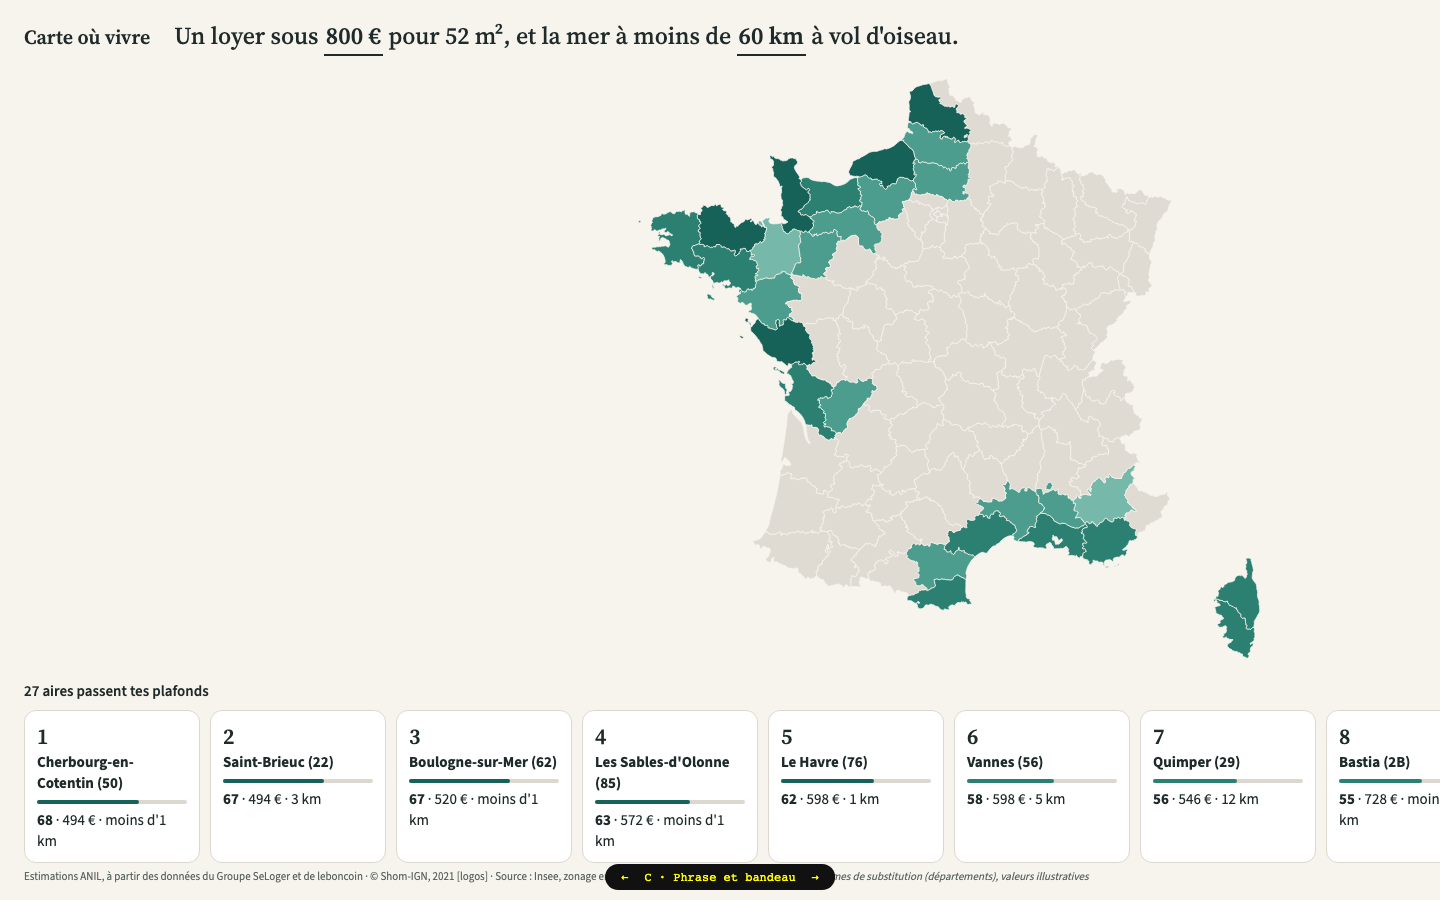
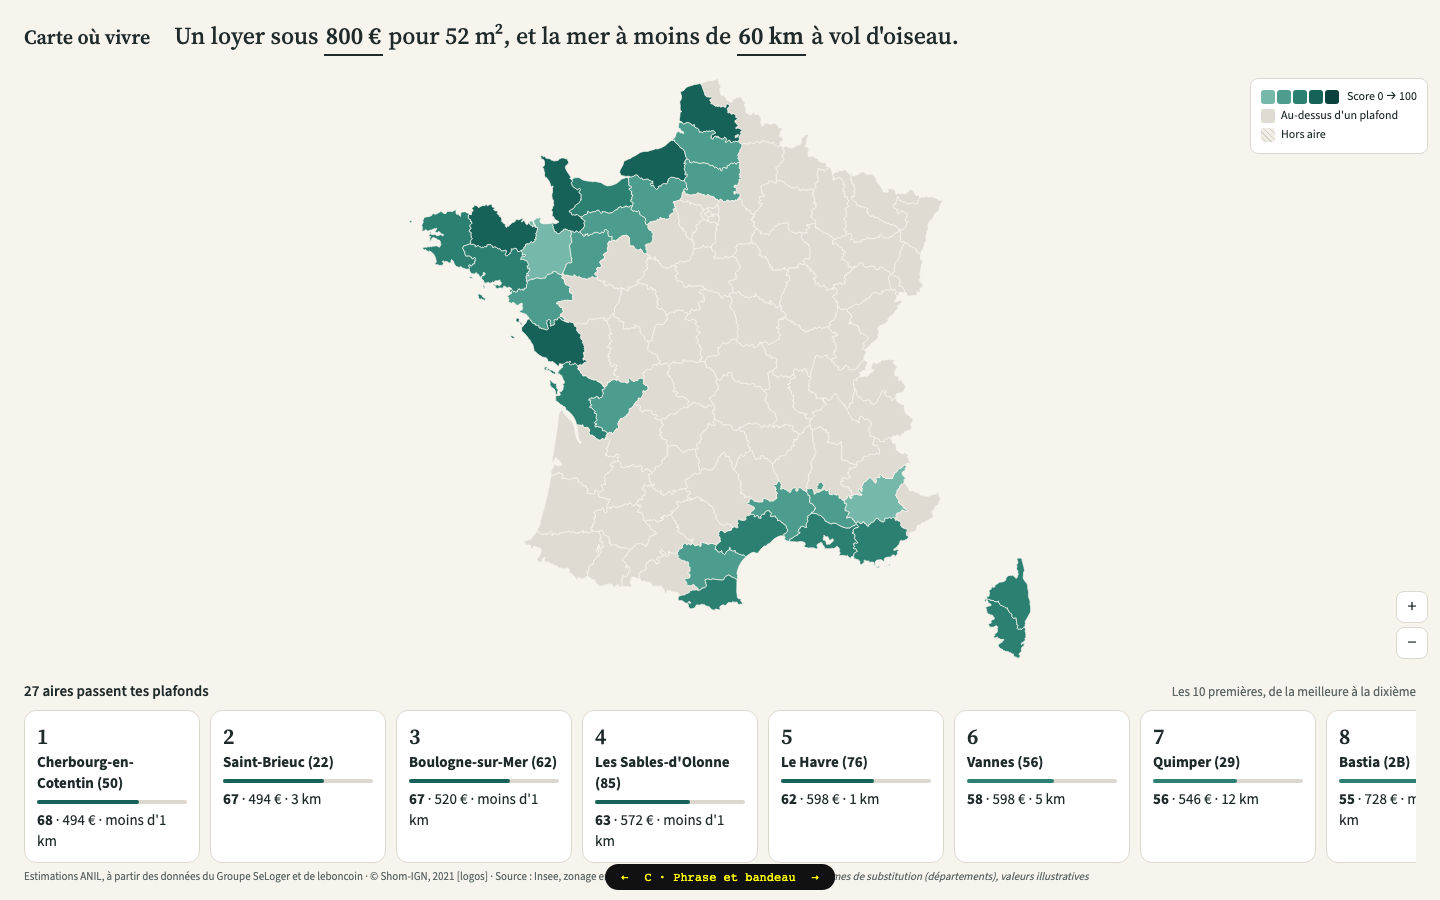
ui: loyer-mer — revue à l'aveugle des directions

Changed region(s): [[0.2812, 0.0933, 0.8125, 0.7467], [0.8125, 0.6222, 0.9688, 0.7778], [0.875, 0.0933, 0.9688, 0.1556]]

diff --git a/docs/design/loyer-mer/review-directions.md b/docs/design/loyer-mer/review-directions.md
@@ -1,0 +1,133 @@
+# Revue à l'aveugle des directions — loyer-mer
+2026-10-12 · relecteur neuf, mode `directions` · Grille : [README](README.md) · Brief : [brief.md](brief.md) · Spec : [details.md](../../specs/2026-10-12-loyer-mer/details.md)
+
+Matériel regardé : les 12 captures de `directions/`, le prototype en marche (`localhost:8765`) à 1440 × 900, 1366 × 768 et 390 × 844, son code source (moteur commun + 3 vues), un passage au clavier sur C, et un calcul des contrastes des jetons du brief. Mes captures sont dans `/private/tmp/rev-*.png`.
+
+Les trois directions partagent le même moteur (règles R1–R7, textes de la fiche, couleurs, légende). Elles ne diffèrent que par la **disposition** : A = carte plein écran et panneaux posés dessus, feuille en bas à 390 px ; B = trois colonnes, pile verticale à 390 px ; C = phrase à trous en tête, bandeau de cartes en bas. Elles ont le même niveau de finition, sauf un défaut du prototype C qui le dessert (voir objectif 2) : je l'ai décompté.
+
+## 1. Notes par objectif
+
+Échelle : 0 = l'objectif n'est pas atteint · 1 = atteint avec un effort que l'utilisateur ne fera pas · 2 = atteint avec un défaut · 3 = bien servi. Chaque case donne **bureau · 390 px**.
+
+| Objectif de la grille | A | B | C |
+|---|---|---|---|
+| 1. Lire la France d'un coup d'œil | 3 · 3 | 3 · 2 | 2 · 1 |
+| 2. Régler et voir réagir | 3 · 3 | 3 · 2 | 2 · 1 |
+| 3. La liste, « ce qu'on va visiter » | 3 · 2 | 3 · 1 | 1 · 1 |
+| 4. Comprendre une couleur | 3 · 2 | 2 · 1 | 3 · 2 |
+| 5. Des chiffres crédibles | 3 · 1 | 3 · 3 | 3 · 3 |
+| **Total (sur 30)** | **26** | **23** | **19** |
+
+### Objectif 1 — Lire la France d'un coup d'œil
+- **A (3 · 3)** : la carte prend tout l'écran ; les marges de la projection (340 px de chaque côté) font que les panneaux ne recouvrent aucune forme (`A-ideal.png`). À 390 px, la carte occupe la moitié haute, la légende ne recouvre que la Manche (`A-mobile.png`).
+- **B (3 · 2)** : en bureau, la carte fait 820 px de large sur toute la hauteur : aussi lisible que A (`B-ideal.png`). À 390 px, la légende recouvre les Landes et les Pyrénées-Atlantiques, et les boutons + / − recouvrent la Corse (`B-mobile.png`).
+- **C (2 · 1)** : la phrase et le bandeau prennent ~280 px de hauteur : la France n'occupe plus qu'environ 580 px sur 900 (`C-ideal.png`). À 390 px, la légende recouvre des aires colorées du Nord et de la Picardie, et la Corse est coupée au bord droit (`C-mobile.png`).
+- **Commun** : la légende dit « Score 0 → 100 » sous 5 pastilles, sans les bornes « 0–20 … 80–100 » demandées par le brief : on ne sait pas quelle pastille vaut quelle tranche. Le contour de l'aire choisie est invisible sur les deux tranches foncées (voir Constats communs).
+
+### Objectif 2 — Régler et voir réagir
+- **A (3 · 3)** : les deux curseurs et le compte « 29 aires passent tes plafonds » sont dans le même panneau, toujours visibles ; on voit la carte et le compte bouger en même temps. À 390 px, la feuille garde les deux curseurs sous la carte et la carte reste visible pendant le réglage (référence Strava).
+- **B (3 · 2)** : les curseurs sont visibles en permanence dans la colonne de gauche. À 390 px, la carte et les curseurs tiennent sur le premier écran, mais le compte est à y ≈ 868 px, sous le bas de l'écran (844 px) : on ne le voit pas changer (`/private/tmp/rev-B-m-fiche.png`, capture pleine page).
+- **C (2 · 1)** : les valeurs sont toujours visibles dans la phrase, mais régler demande d'ouvrir un curseur dans une bulle, à chaque fois. À 390 px, cette bulle de 280 px se pose sur la carte et cache la réaction qu'on veut voir. **Défaut du prototype** : la bulle est sans style (la règle CSS `.vC .popslider` vise une classe placée dans `.vC`, alors que la bulle est ajoutée au `body`) ; le curseur s'affiche donc pleine largeur sous le bas de la page, hors de l'écran à 1440 × 900 (`/private/tmp/rev-C-pop.png`). Je juge l'intention (une bulle sous le mot), pas ce défaut, mais Vincent ne peut pas ressentir C tant qu'il n'est pas corrigé.
+
+### Objectif 3 — La liste, « ce qu'on va visiter »
+- **A (3 · 2)** : les 10 lignes tiennent dans le panneau de droite à 1440 × 900, avec le rang, le nom, le loyer, la mer et le score ; c'est une `<ol>` de boutons, avec un focus visible. À 390 px, la feuille montre le compte et 3 lignes ; le reste défile dans la feuille.
+- **B (3 · 1)** : en bureau, c'est la même liste que A. À 390 px, la liste commence à y ≈ 830 px, après les curseurs et les mentions : il faut faire défiler la page pour la trouver.
+- **C (1 · 1)** : les 10 premières sont dans un bandeau horizontal de cartes de 176 px. On en voit 7 et demie sur 10 à 1440 px, et 2 sur 10 à 390 px. Le défilement horizontal à la souris demande Maj + molette, et le bandeau n'est pas une liste (des boutons sans `<ol>`). Le libellé « moins d'1 km » se coupe sur deux lignes dans 4 cartes (`C-ideal.png`).
+
+### Objectif 4 — Comprendre une couleur
+Le contenu de la fiche est identique dans les trois (score « 32 / 100 », « 26e sur 29 aires qui passent », « 832 € par mois pour 52 m² (16,0 €/m²) », « 40 km de la mer à vol d'oiseau » : conforme à R4 et R6). Seuls la position de la fiche et ce qu'elle recouvre changent.
+- **A (3 · 2)** : en bureau, la fiche s'ouvre à côté du clic, lisible (`A-fiche.png`). Sa position suit le dernier clic sur la carte. Si on choisit depuis la liste, elle apparaît au dernier point cliqué ou au centre de l'écran, loin de l'aire choisie. Près de l'Est ou de la Corse, elle passe par-dessus le panneau de la liste (calcul `left = min(innerWidth−280, x+14)`, `z-index:5`). À 390 px, elle recouvre le bas de la feuille, donc la liste (`/private/tmp/rev-A-m-fiche.png`). Les curseurs restent accessibles, ce qui permet de voir la fiche changer d'état.
+- **B (2 · 1)** : en bureau, la fiche est rangée sous la liste, stable, sans rien cacher (`B-fiche.png`). Mais à 1366 × 768, une taille d'écran portable courante, le loyer et la mer sont sous le bas de l'écran (`/private/tmp/rev-B-1366-fiche.png`). À 390 px, la fiche s'ouvre à y ≈ 1 475 px sur une page de 1 650 px : toucher une aire sur la carte, en haut de la page, ne montre rien d'autre qu'un contour.
+- **C (3 · 2)** : la fiche est toujours au même endroit, en haut à gauche de la carte, sans recouvrir la France en bureau (`C-fiche.png`). À 390 px, elle se pose en bas de la carte et cache le Sud pendant qu'elle est ouverte.
+
+### Objectif 5 — Des chiffres crédibles
+- **A (3 · 1)** : les mentions sont présentes en bureau (une ligne en pied de page, 11 px, contraste 5,4:1). **À 390 px, elles sont masquées** (`.vA .mentions{display:none}`) et la feuille ne les reprend pas.
+- **B (3 · 3)** : les mentions sont en bas de la colonne de gauche ; à 390 px, entre les curseurs et la liste, visibles.
+- **C (3 · 3)** : les mentions sont sous le bandeau, aux deux largeurs. De plus, la phrase porte les unités et le mode de mesure au premier niveau de lecture : « pour 52 m² », « à vol d'oiseau ». C'est la direction la plus explicite.
+- **Commun** : aucun habillage gadget. Les logos Shom et IGN sont remplacés par « [logos] » dans les trois (non jugé).
+
+## 2. Constats
+
+### Communs aux trois (à corriger quelle que soit la base)
+**[Majeur] Le contour de l'aire choisie disparaît sur les meilleures aires** — la personne qui ouvre la fiche d'une aire foncée (les meilleures, celles qu'on choisit le plus) ne voit pas laquelle est en évidence.
+  Où : carte, fiche **aire qui passe**, aires des tranches 60–80 et 80–100.
+  Preuve : contour `foreground` #1F2A2A contre `score-4` #176258 = 2,06:1, contre `score-5` #0A433D = 1,32:1 (minimum 3:1). details.md : « l'aire est en évidence sur la carte ».
+  Correction : un double contour, par exemple 3 px `card` #FFFFFF sous 1,5 px `foreground`, lisible sur toutes les tranches et sur les gris.   Réf : WCAG 1.4.11, details.md (États de la fiche).
+
+**[Majeur] Le compte n'est pas annoncé** — une personne qui utilise un lecteur d'écran et bouge un curseur n'apprend pas que le compte « N aires passent tes plafonds » a changé.
+  Où : compte et messages de liste, dans les trois vues (aucun `role="status"` ni `aria-live` dans le source).
+  Preuve : règle du projet « messages d'état annoncés ».
+  Correction : placer le compte et les messages « Aucune aire… » et « Fixe un loyer… » dans une zone `role="status"` ; le noter dans le Figma comme annotation.   Réf : WCAG 4.1.3.
+
+**[Mineur] La légende ne dit pas les bornes des tranches** — « Score 0 → 100 » au lieu de « 0–20 … 80–100 » : on ne peut pas dire qu'une aire est « entre 60 et 80 ». Réf : brief (Échelles), objectif 1.
+
+**[Mineur] L'état chargement manque** — « Chargement de la carte… » n'existe dans aucune vue. L'erreur existe, mais sans style. Ces deux états sont à dessiner dans le Figma de convergence. Réf : details.md (États de la page).
+
+**[Mineur] La fiche ne reçoit pas le focus et ne se ferme pas avec Échap** — après avoir choisi une ligne au clavier, il faut parcourir le reste de la liste (A, B) ou revenir en arrière par-dessus la carte (C, où la fiche est placée avant le bandeau dans le code) pour atteindre « Fermer ». Réf : WCAG 2.4.3.
+
+### Direction A
+**[Majeur] Les mentions obligatoires disparaissent à 390 px** — sur téléphone, aucune source n'est visible : ni ANIL, ni Shom-IGN, ni Insee.
+  Où : `?variant=A` à 390 px (`A-mobile.png`, règle `.vA .mentions{display:none}` sous 640 px).
+  Preuve : CLAUDE.md, « Mentions obligatoires sur le site » ; details.md, vérification étape 4 « aux deux largeurs » ; objectif 5.
+  Correction : mettre les mentions en bas de la feuille, après la liste.   Réf : objectif 5.
+
+**[Mineur] La fiche suit le dernier clic** — choisie depuis la liste, elle s'ouvre loin de l'aire, et elle peut passer par-dessus la liste. Correction : une position fixe (voir la recommandation).
+
+**[Mineur] La poignée de la feuille ne fait rien** — elle annonce un glissement qui n'existe pas. Si la feuille devient déplaçable, il faut aussi un bouton pour l'ouvrir et la fermer (règle « tout ce qui se glisse se fait aussi d'un clic »).
+
+### Direction B
+**[Majeur] À 390 px, il n'y a pas de feuille : la liste et la fiche sont hors de l'écran** — toucher une aire sur la carte ouvre une fiche à 1 100 px plus bas, que la personne ne voit pas ; la liste et le compte sont sous le premier écran.
+  Où : `?variant=B` à 390 × 844 (`/private/tmp/rev-B-m-fiche.png` : liste à y ≈ 830, compte à y ≈ 868, fiche à y ≈ 1 475).
+  Preuve : brief, Mobile : « réglages, liste et fiche dans une feuille qui monte du bas » ; objectifs 3 et 4.
+  Correction : reprendre la feuille de A à 390 px.   Réf : brief (Mobile), objectifs 3–4.
+
+**[Mineur] Fiche coupée sur un portable 1366 × 768** — le loyer et la mer sont sous le bas de l'écran dans la colonne de droite (`/private/tmp/rev-B-1366-fiche.png`).
+
+**[Mineur] Trois colonnes blanches autour de la carte** — c'est la disposition qui se rapproche le plus de la référence rejetée (Profound, « trop technique, pas assez centré sur la carte »). C'est une question de ressenti, pas d'objectif : je ne la compte pas dans les notes.
+
+### Direction C
+**[Majeur] Les 10 premières ne se lisent pas d'un coup** — dans le bandeau horizontal, on voit 7 cartes et demie sur 10 à 1440 px, et 2 sur 10 à 390 px. On ne peut donc pas comparer la 1re et la 10e sans faire défiler de côté.
+  Où : bandeau, `C-ideal.png`, `C-mobile.png`.
+  Preuve : objectif 3 « les 10 premières lisibles » ; R5.
+  Correction : si C devient la base, reprendre une liste verticale ; sinon, ne pas reprendre le bandeau.   Réf : objectif 3.
+
+**[Majeur] Les plafonds ne sont pas « à portée »** — chaque réglage demande trois gestes (ouvrir la bulle, glisser, refermer). À 390 px, la bulle cache la carte pendant le glissement. Au clavier, Échap ne ferme pas la bulle, et Tab après le curseur sort de la page (essai du 2026-10-12 : la bulle reste ouverte, aucun focus visible ensuite).
+  Où : phrase à trous, `?variant=C`.
+  Preuve : objectif 2, « restent visibles et à portée » ; WCAG 2.4.3. J'ai hésité avec Mineur : les valeurs restent visibles. Je garde Majeur parce que, sur téléphone, on ne voit plus la carte réagir, ce qui est le cœur de l'objectif.
+  Correction : garder la phrase comme résumé, mais laisser les curseurs visibles (voir la recommandation).   Réf : objectif 2, WCAG 2.4.3.
+
+**[Mineur] Les boutons de la phrase ont un nom incomplet** — un lecteur d'écran annonce « 800 €, bouton », sans dire de quel plafond il s'agit. Nom attendu : « Loyer maximum : 800 € ». Réf : WCAG 2.4.6.
+
+**[Mineur] Capture à refaire** — `C-loyer800.png` montre une carte décalée, avec la légende et le zoom hors de l'écran. Je ne reproduis pas ce défaut en direct (`/private/tmp/rev-C-800.png` est correct). C'est un défaut de capture : la refaire avant de la montrer.
+
+### Propre à A et B
+**[Majeur] Le score en blanc sur les tranches claires est illisible** — avec des plafonds serrés, les premières de la liste tombent dans les tranches claires, et leur score devient difficile à lire.
+  Où : pastille de score de la liste (A, B), texte blanc gras de 13 px.
+  Preuve : blanc sur `score-1` #76B8A9 = 2,28:1, sur `score-2` #4C9D8D = 3,22:1 (minimum 4,5:1). C n'a pas ce défaut : texte foncé et barre.
+  Correction : texte `foreground` sur les tranches 1 et 2 (6,47:1 et 4,58:1), blanc à partir de la tranche 3.   Réf : WCAG 1.4.3.
+
+## 3. Ce que chaque direction fait de mieux
+- **A** : la carte vraiment d'abord (plein écran, panneaux posés dessus, conforme à Felt) ; les curseurs et le compte réunis, toujours visibles ; à 390 px, la seule feuille du bas qui garde à la fois la carte et les curseurs à l'écran (Strava). C'est la seule direction qui sert les objectifs 1 à 3 aux deux largeurs.
+- **B** : une disposition stable, où rien ne recouvre la carte ; la fiche à une place fixe et prévisible ; les mentions toujours visibles, y compris à 390 px.
+- **C** : la phrase « Un loyer sous 1 200 € pour 52 m², et la mer à moins de 60 km à vol d'oiseau. » C'est le meilleur résumé des plafonds, en langage de canapé, avec les unités et le « à vol d'oiseau » au premier niveau (objectif 5), et c'est aussi la phrase qu'on a envie de partager. Ensuite, la fiche à position fixe, et le score écrit en foncé avec une barre (pas de problème de contraste).
+
+## 4. Recommandation
+**Base : A.** C'est la seule qui sert la grille aux deux largeurs ; ses défauts (mentions à 390 px, position de la fiche) se corrigent sans changer la disposition.
+
+À reprendre :
+1. **De C, la phrase**, comme résumé en tête du panneau de réglages en bureau et comme état replié de la feuille à 390 px (« Un loyer sous 1 200 € pour 52 m², la mer à moins de 60 km à vol d'oiseau · 29 aires passent »). Un bouton déplie les curseurs, qui restent de vrais curseurs visibles une fois dépliés. On ne reprend pas la bulle.
+2. **De B et C, la fiche à place fixe** au lieu de la fiche qui suit le clic. En bureau, la mettre en tête du panneau de droite, au-dessus de la liste (la liste défile dessous), ou à un coin fixe de la carte. À vérifier à 1366 × 768. À 390 px, elle s'ouvre dans la feuille, comme dans A.
+3. **De B, les mentions toujours visibles** : à 390 px, en bas de la feuille.
+4. **De C, le score en texte foncé**, avec la barre si elle reste discrète, à la place de la pastille blanche, ou la correction de contraste décrite plus haut.
+5. **Pour les trois** : double contour de l'aire choisie, compte en `role="status"`, bornes des tranches dans la légende, états chargement et erreur dessinés, focus envoyé à la fiche et fermeture par Échap.
+
+À ne pas reprendre : le bandeau horizontal de C (objectif 3) et la pile verticale de B à 390 px (objectifs 3 et 4).
+
+## 5. Ce qui marche (dans les trois)
+- La palette tient sa promesse : on voit d'un coup d'œil « où est le foncé » (les côtes atlantique, de la Manche et méditerranéenne), et les deux gris restent distincts du vert le plus clair.
+- Les textes de la fiche, de la liste et des messages suivent la spec mot pour mot (R4, R5, R6), et les règles réagissent sans délai perceptible avec 96 formes.
+
+## 6. Non jugé
+- **Les vraies formes** : 675 aires et communes hors aire. Les départements n'ont pas de zone « hors aire » : je n'ai pas vu les hachures sur la carte, ni la lisibilité de petites aires, ni le budget de 100 ms avec ~35 000 communes.
+- **La fiche d'une aire grisée** (avec ses raisons) et la page **sans plafond** : je ne les ai pas capturées. Le code commun produit bien « Loyer 832 € : au-dessus de ton plafond de 800 € » et la légende « Sans plafond ».
+- **Les logos** Shom et IGN (« [logos] »), le mouvement (aucun), un vrai téléphone (pincement, glissement de la feuille), un lecteur d'écran réel.
